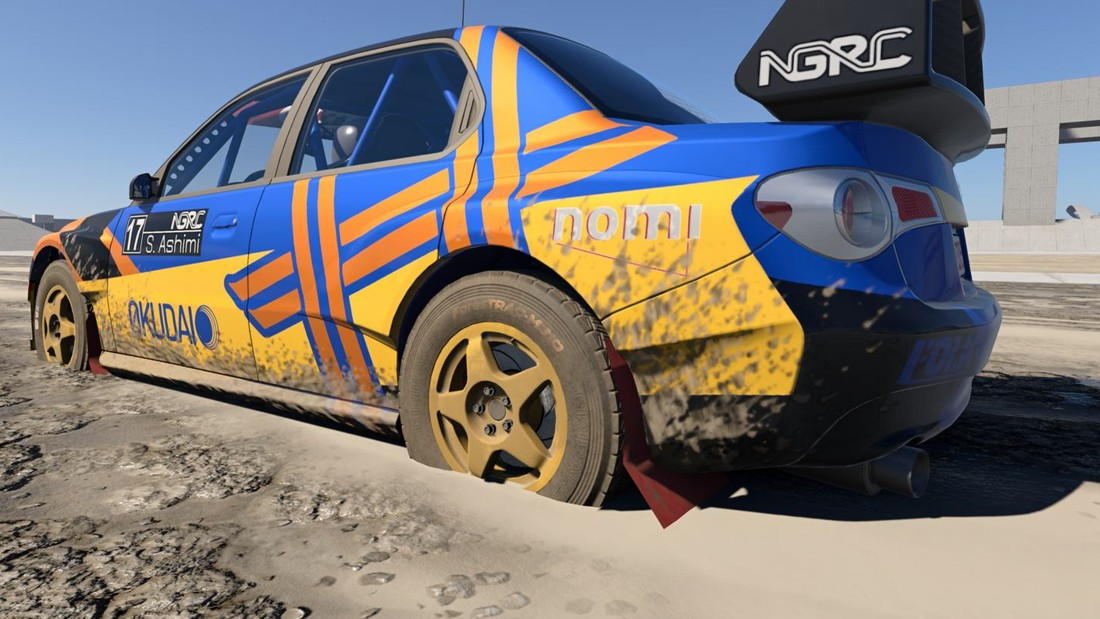
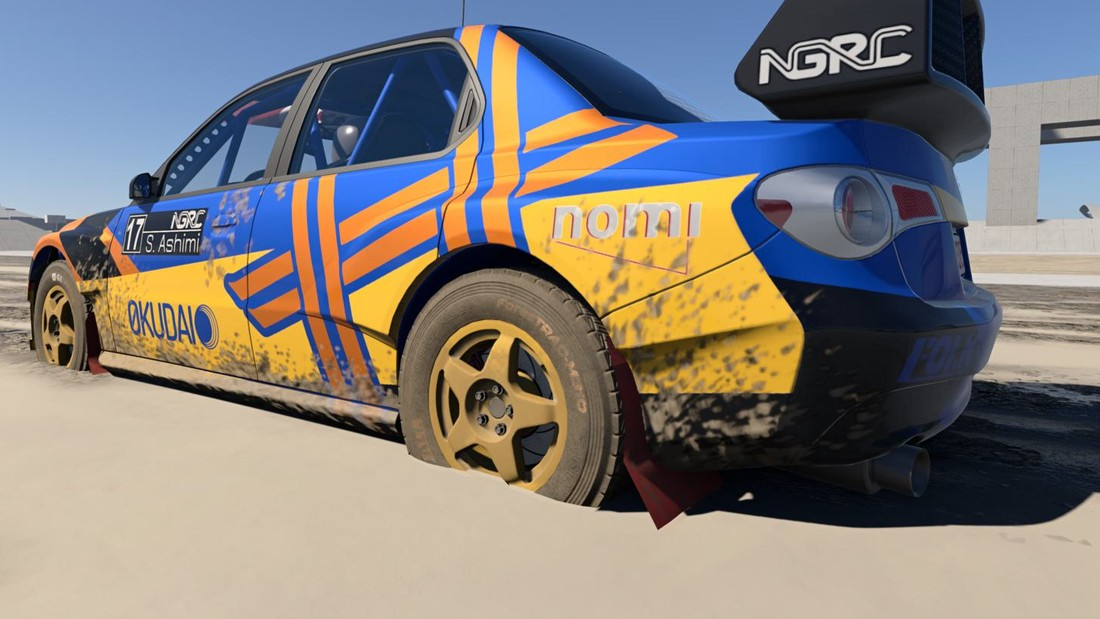
Fix the fan of lines across hood and roof after a roll; floor film off by default
The aerial reported contacts when dragged along the ground, and a decal
anchored at its tip was projected down through the car. Aerials and the rear
window no longer report. Contacts from broken-off parts are dropped, hood and
nose contacts are no longer taken for underside ones, and a cluster's camera
follows its stamps' facing. New crash scenarios for the bench.

diff --git a/tools/bench.py b/tools/bench.py
@@ -75,6 +75,16 @@ SCENARIOS = {
                      offset={"up": 1.2}, euler={"roll": 70}, vel={"right": 15}, maxTime=12),
     "bellyflop": dict(desc="upright, dropped flat from 2.6 m at 12 m/s - the suspension bottoms out and the belly grounds",
                       offset={"up": 2.6}, vel={"fwd": 12}, maxTime=8),
+    "roofslide": dict(desc="upside down, nose low, sliding forward on hood and roof at 13 m/s",
+                      offset={"up": 1.6}, euler={"roll": 180, "pitch": 12}, vel={"fwd": 13}, maxTime=10),
+    "hoodslide": dict(desc="upside down, nose well down, sliding forward on the hood at 24 m/s",
+                      offset={"up": 1.9}, euler={"roll": 180, "pitch": 28}, vel={"fwd": 24}, maxTime=12),
+    "tumble": dict(desc="pitched nose-down 75 deg, dropped from 3 m at 14 m/s - lands on the nose and goes over",
+                   offset={"up": 3.0}, euler={"pitch": -75}, vel={"fwd": 14}, maxTime=12),
+    "endo": dict(desc="nose-down past vertical, dropped from 3.5 m at 18 m/s - goes end over end on hood and roof",
+                 offset={"up": 3.5}, euler={"pitch": -110}, vel={"fwd": 18}, maxTime=14),
+    "barrel": dict(desc="thrown sideways and forward at 22 m/s, leaning 100 deg - barrel rolls",
+                   offset={"up": 1.6}, euler={"roll": 100}, vel={"right": 18, "fwd": 12}, maxTime=14),
     "nosedive": dict(desc="pitched nose-down 40 deg, dropped from 1.6 m at 9 m/s",
                      offset={"up": 1.6}, euler={"pitch": -40}, vel={"fwd": 9}, maxTime=8),
 }

diff --git a/TODO.md b/TODO.md
@@ -95,6 +95,26 @@ Added 2026-11-20 with snow fling, the wheel and undercarriage overlay, underside
 scrapes and ground transfer. Driven on Vulkan, BeamNG 0.40.6.0, mostly on the
 Sunburst rally car; wheel binding was also checked on eleven other vehicles.
 
+- [x] **Fan of long lines across the hood and roof after a roll** (2026-11-20).
+  The aerial. It stands a metre clear of the roof and is the first thing
+  dragged along the ground when the car goes over; a decal anchored at its tip
+  was projected from above the tip down through the roof, hood and bumper,
+  magnified, as straight lines fanning out from the aerial's base. Aerials (and
+  the rear window) no longer report contacts. `tools/bench.py run endo`
+  reproduced it three times in three before, none in three after.
+- [ ] **A decal anchored off the surface projects through.** The aerial was the
+  bad case, but any contact node that stands clear of the skin under it (a
+  wing on struts, a roof bar, a light pod) is painted onto what lies beneath,
+  larger than life. Nothing checks the distance from a contact to the panel.
+- [x] **Contacts from parts that have broken off** are dropped
+  (`stamp.strayDropped`): a bumper lying 30 m away kept reporting, 42 of 132
+  contacts in one crash were not on the car.
+- [x] **Hood and nose contacts were taken for underside ones.** The underside
+  zone was 42 % of the spawn box, which an aerial stretches to 2.18 m, so it
+  reached hood height; it now stops 0.55 m above the floor, and a body contact
+  must be within about 37 degrees of straight up. The shared camera of a
+  cluster also follows the stamps' resolved facing: an up and a down normal
+  used to cancel and aim it along the car.
 - [ ] **Belly scrapes are counted, not yet seen.** The `bellyflop` bench
   scenario (`tools/bench.py run bellyflop`) grounds the car: 52 underside
   contacts, 40 patches painted, undercarriage abrasion at step 4 of 10. From
@@ -108,12 +128,13 @@ Sunburst rally car; wheel binding was also checked on eleven other vehicles.
   bottom-left corner, and a UV-space texture fill of that corner does reach it:
   the floor now gets an even film that steps up as the wheels roll through soil
   (`soil_floor_fill_1..6`, `tools/generate_floor_fill.py`).
-- [ ] **The floor film is shared.** That one texel is read by everything else
-  outside the skin layout too: on the Sunburst rally car the window frames,
-  pillars and the top of the rear wing. So the film stops at four of its six
-  steps by default, about half strength; `setSoilExtras(nil, nil, nil, 6)`
-  lets it go to 0.72, `false` turns it off. One even colour, no lumps. Checked
-  on the Sunburst only: which faces share the texel on other cars is unknown.
+- [ ] **The floor film is off by default** (owner's call, 2026-11-20). That one
+  texel is read by everything else outside the skin layout too: on the Sunburst
+  rally car the window frames, pillars and the top of the rear wing, which
+  must not be coloured. The code stays:
+  `scratches_paint.setSoilExtras(nil, nil, nil, true)` turns it on (four of its
+  six steps, about half strength; pass 6 for 0.72). One even colour, no lumps.
+  To ship it, the film needs a way to reach the floor without the trim.
 - [x] **Mud was half transparent.** The soil stage takes its opacity from the
   soil canvas red channel, so brown mud at r = 0.43 was 43 % opaque at best.
   Soil is now baked at full red with its brightness in the stage's colour
@@ -176,7 +197,7 @@ Sunburst rally car; wheel binding was also checked on eleven other vehicles.
 
 ## Tech debt
 
-- [ ] **No CI.** The 498-check harness and preflight only run locally
+- [ ] **No CI.** The 505-check harness and preflight only run locally
   (`python tools/package.py`). A GitHub Action with Lua 5.1 would guard `master`.
 - [ ] **`paint.lua` is near Lua's local limit.** About 3,500 lines and 163
   top-level locals; Lua 5.1 caps a function at 200. Split the scheduler, soil

diff --git a/CHANGELOG.md b/CHANGELOG.md
@@ -33,11 +33,19 @@ render the same; worst bake there 19.6 ms.
   dry-ground colour was hard to see on bright paint.
 - Underside soil is projected under the sills, not at the floor pan: a car's
   skin UV layout has no floor in it, so nothing showed there.
-- **Mud on the painted floor.** Faces outside the skin layout read one corner
-  texel of the canvas; a UV-space texture fill of that corner gives the floor a
-  film that steps up with the soil rolled through (`soil_floor_fill_1..6`,
-  `scratches_paint.soilFill`). The window frames and wing top of the Sunburst
-  rally car share that texel, so it stops at about half strength by default.
+- **Mud on the painted floor, off by default.** Faces outside the skin layout
+  read one corner texel of the canvas; a UV-space texture fill of that corner
+  gives the floor a film that steps up with the soil rolled through
+  (`soil_floor_fill_1..6`, `scratches_paint.soilFill`). The window frames and
+  wing top of the Sunburst rally car share that texel, so it stays off until it
+  can reach the floor alone (`setSoilExtras(nil, nil, nil, true)` to try it).
+- **Fixed: a fan of long straight lines across the hood and roof after a
+  roll.** The aerial reported contacts when it was dragged along the ground,
+  and a decal anchored at its tip was projected down through the car. Aerials
+  and the rear window no longer report. Also: contacts from parts that have
+  broken off are dropped, hood and nose contacts are no longer taken for
+  underside ones, and a cluster's camera follows its stamps' facing. New bench
+  scenarios `endo`, `barrel`, `tumble`, `roofslide`, `hoodslide`.
 - **Opaque mud.** Soil opacity is the soil canvas red channel, so dark mud was
   mostly transparent. Soil is baked at full red and the stage's colour factor
   carries its brightness (`bodyAdapter soilTone`).

diff --git a/README.md b/README.md
@@ -118,11 +118,11 @@ go white.
 <table>
   <tr>
     <td width="50%"><img src="docs/showcase/wheels-mud.jpg" alt="Mud caked on the tyres and dusting the rims of a rally car parked in a mud pit"></td>
-    <td width="50%"><img src="docs/showcase/underside-mud.jpg" alt="The underside of the same car: skid plate, mud flaps and tyres caked in mud, and a film of mud over the painted floor"></td>
+    <td width="50%"><img src="docs/showcase/underside-mud.jpg" alt="The underside of the same car: skid plate, mud flaps and tyres caked in mud, with a muddy strip under each sill"></td>
   </tr>
   <tr>
     <td valign="top"><b>Wheels and tyres get dirty.</b> Tyres cake up fast, rims take a lighter dusting, and both rinse off in water with the rest of the car. Drag a wheel along on its side and the rim gets scuffed.</td>
-    <td valign="top"><b>So does the underside.</b> Skid plates, suspension, exhaust, mud flaps and running boards pick up mud as you drive, the painted floor gets a film of it, and it cakes under the sills. In deep mud it builds up along them too. Bottom out and the belly gets scuffed.</td>
+    <td valign="top"><b>So does the underside.</b> Skid plates, suspension, exhaust, mud flaps and running boards pick up mud as you drive, and it cakes under the sills. In deep mud it builds up along them too. Bottom out and the belly gets scuffed.</td>
   </tr>
 </table>
 

diff --git a/docs/known-issues.md b/docs/known-issues.md
@@ -29,11 +29,11 @@ affect you:
 - **First mud contact hitch.** The first terrain-texture read for soil tint takes
   about 99 ms; later lookups are cached (~0.03 ms).
 - **Snow fling, dirty wheels, underside and ground paint are brand new.** Driven
-  on Vulkan on a few cars. The mud film on the painted floor is one even colour,
-  and the window frames, pillars and rear wing top of the Sunburst rally car
-  pick up the same film, so it stops at about half strength
-  (`scratches_paint.setSoilExtras(nil, nil, nil, 6)` in game-engine Lua for
-  more, `false` for none). Belly scrapes are counted but barely visible. A car you switch into, rather than spawn, keeps
+  on Vulkan on a few cars. The painted floor pan under the car stays clean; the
+  mud underneath lands on the skid plates, suspension, exhaust, mud flaps and
+  under the sills. (A mud film for the floor exists but is switched off: it
+  also colours the window frames and wing.) Belly scrapes are counted but
+  barely visible. A car you switch into, rather than spawn, keeps
   clean wheels until you reload it. See
   [TODO](../TODO.md#needs-live-verification).
 - **Marks don't persist.** Reset, vehicle switch, reload and editor use clear all

diff --git a/docs/how-it-works.md b/docs/how-it-works.md
@@ -115,7 +115,7 @@ art/dynamicDecals/textures/                         # brush PNGs + .dynDecalText
 tools/package.py                                    # release zip builder + preflight
 tools/dev.py                                        # dev loop: deploy + hot-reload via BeamNG MCP
 tools/bench.py                                      # scripted crash scenarios + frame timing + screenshots
-tools/sim/*.lua                                     # headless mocked-engine harnesses (498 checks)
+tools/sim/*.lua                                     # headless mocked-engine harnesses (505 checks)
 tools/generate_*.py                                 # damage, brush, soil and soil-normal art generators
 tools/perf_*.py, tools/*_probe.py                   # performance cohorts, traces and live probes
 tools/make_showcase.py                              # rebuilds docs/showcase/ from docs/evidence/

diff --git a/docs/features.md b/docs/features.md
@@ -208,7 +208,7 @@ bakes, backlog, composites) and sliders for every threshold and limit. See
   the mod logs an error.
 - [`tools/bench.py`](../tools/bench.py) runs scripted crash scenarios with
   per-frame timing and five-angle screenshots.
-- [`tools/sim/harness.lua`](../tools/sim/harness.lua) has **498 headless checks**
+- [`tools/sim/harness.lua`](../tools/sim/harness.lua) has **505 headless checks**
   against mocked engine objects. No game is needed.
 - [`tools/package.py`](../tools/package.py) builds the release ZIP behind a syntax,
   stray-global, harness and brush-sidecar preflight.

diff --git a/docs/development.md b/docs/development.md
@@ -79,7 +79,7 @@ Overrides: `BEAMNG_USER`, `BEAMNG_GAME`, `BEAMNG_MCP_PORT`, `BEAMNG_LEVEL`
 Scripted crashes for tuning, with the cost of every frame recorded:
 
 ```
-python tools/bench.py scenarios                    # baseline, roofdrop, sideslide, rollover, bellyflop, nosedive
+python tools/bench.py scenarios                    # baseline, roofdrop, sideslide, rollover, bellyflop, endo, barrel, tumble, ...
 python tools/bench.py run sideslide
 python tools/bench.py run all --tag before
 python tools/bench.py run rollover --set paint.setProjectionBudget=3 --tag budget3
